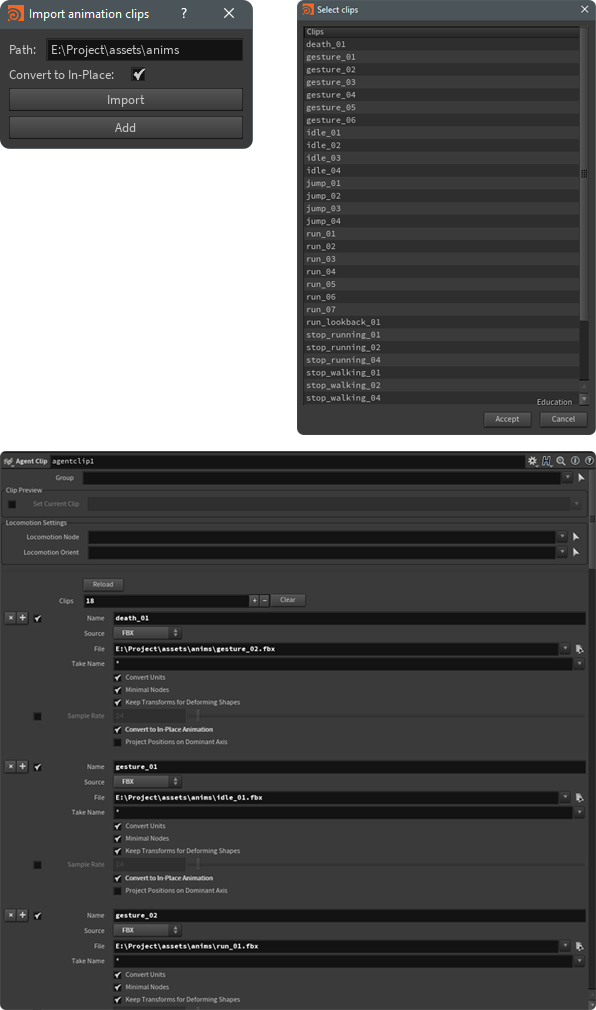
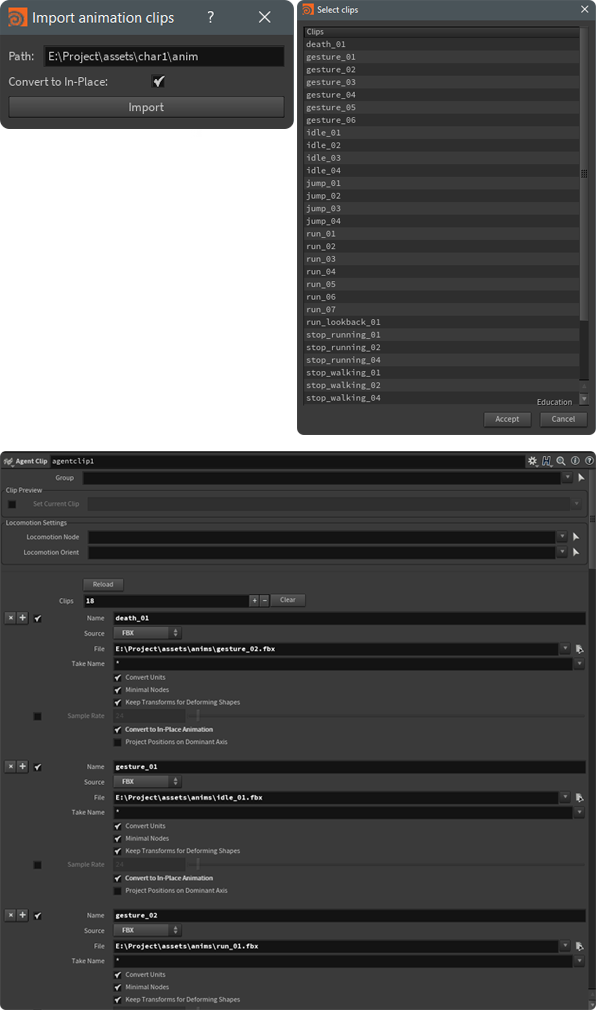
Bug fixes

Changed region(s): [[0.0, 0.0, 0.5134, 0.1535]]

diff --git a/Import_multiple_agent_clips.py b/Import_multiple_agent_clips.py
@@ -37,22 +37,17 @@ class UI(QDialog):
         inplace_layout.addWidget(self.inplace)
         inplace_layout.setSpacing(10)
 
-        #Set a button to start
+        #Set a button to import
         self.button = QPushButton('Import')
-
-        #Set a button to add
-        self.buttonAdd = QPushButton('Add')
  
         #Add all the layout together
         main_layout.addLayout(filepath_layout, stretch=1)
         main_layout.addLayout(inplace_layout, stretch=1)
-        main_layout.addWidget(self.button)        
-        main_layout.addWidget(self.buttonAdd)
+        main_layout.addWidget(self.button)      
         self.setLayout(main_layout)
         
         #Start the main code
         self.button.clicked.connect(self.main)
-        self.buttonAdd.clicked.connect(self.mainAdd)
 
     def main(self): #Check if the user selected a node and check if its a agent clip node
         
@@ -66,19 +61,7 @@ class UI(QDialog):
         else:
         
             self.importclips()
-            
-    def mainAdd(self): #Check if the user selected a node and check if its a agent clip node
-    
-        nodes = hou.selectedNodes()
-        
-        if not nodes or 'agentclip' not in nodes[0].type().name() :
-
-            hou.ui.displayMessage("Please select a Agent Clip node to add the clips into", buttons=('OK',), severity=hou.severityType.Message, default_choice=0, close_choice=0, title="Select a node",details_expanded=False)
-                
-        else:
-        
-            self.add()
-        
+                    
     def path(self): #Returns the fixed path
 
         path = self.filepath.text()
@@ -141,51 +124,19 @@ class UI(QDialog):
             
         return name_list_all
         
-        
+
     def importclips(self): #Imports the clips into the agent clip node
     
         n=0
         j=0
-        i=0
-        nodes = hou.selectedNodes()
-		load_clip=nodes[0]
-        
-        tuple_list=self.getlist_paths()
-        
-        chosen_clips=tuple_list[0]
-        name_list = tuple_list[1]
-        empty = tuple_list[2]
-        
-        if empty != 1: 
-
-            clipsparm = load_clip.parm("clips")
-            clipsparm.set(len(chosen_clips))
-            parms = load_clip.parms()
-            
-            #Gives to each clip parm a name and the file path, sets it to fbx and convert to in-place if selected in the UI
-            for x in parms:
-                
-                if x.name().startswith("name"):
-                    x.set(name_list[n])
-                    n+=1
-                elif x.name().startswith("file"):
-                    x.set(chosen_clips[j])
-                    j+=1
-                elif x.name().startswith("source"):
-                    x.set(1)
-                elif x.name().startswith("converttoinplace") and self.inplace.isChecked():
-                    x.set(1)
-
-    def add(self): #Same as importclips but without deleting previous clips
-    
-        n=0
-        j=0
+        s=""
 
         nodes = hou.selectedNodes()
 
         load_clip=nodes[0]
         clipsparm = load_clip.parm("clips")
         i=clipsparm.eval()
+        
 
         tuple_list=self.getlist_paths()
         chosen_clips=tuple_list[0]
@@ -195,21 +146,29 @@ class UI(QDialog):
         if empty != 1:
         
             clipsparm = load_clip.parm("clips")
+
+            first_clip = load_clip.parm("name1")
+
+            if not first_clip.eval():
+
+                i=0
+            
             clipsparm.set(len(chosen_clips)+i)
             parms = load_clip.parms()
-            
+
+            #Gives to each clip parm a name and the file path, sets it to fbx and convert to in-place if selected in the UI
             for x in parms:
                 if x.name().startswith("name"):
                     if not x.eval():
-                            x.set(name_list[n])
-                            n+=1
+                        x.set(name_list[n])
+                        n+=1
                 elif x.name().startswith("file"):
                     if not x.eval():
-                            x.set(chosen_clips[j])
-                            j+=1
-                elif x.name().startswith("source"):
+                        x.set(chosen_clips[j])
+                        j+=1
+                elif x.name().startswith("source") and int(x.name()[-1:]) > i:
                     x.set(1)
-                elif x.name().startswith("converttoinplace") and self.inplace.isChecked():
+                elif x.name().startswith("converttoinplace") and self.inplace.isChecked() and int(x.name()[-1:]) > i:
                     x.set(1)
 
 #Starts the script window for the user
